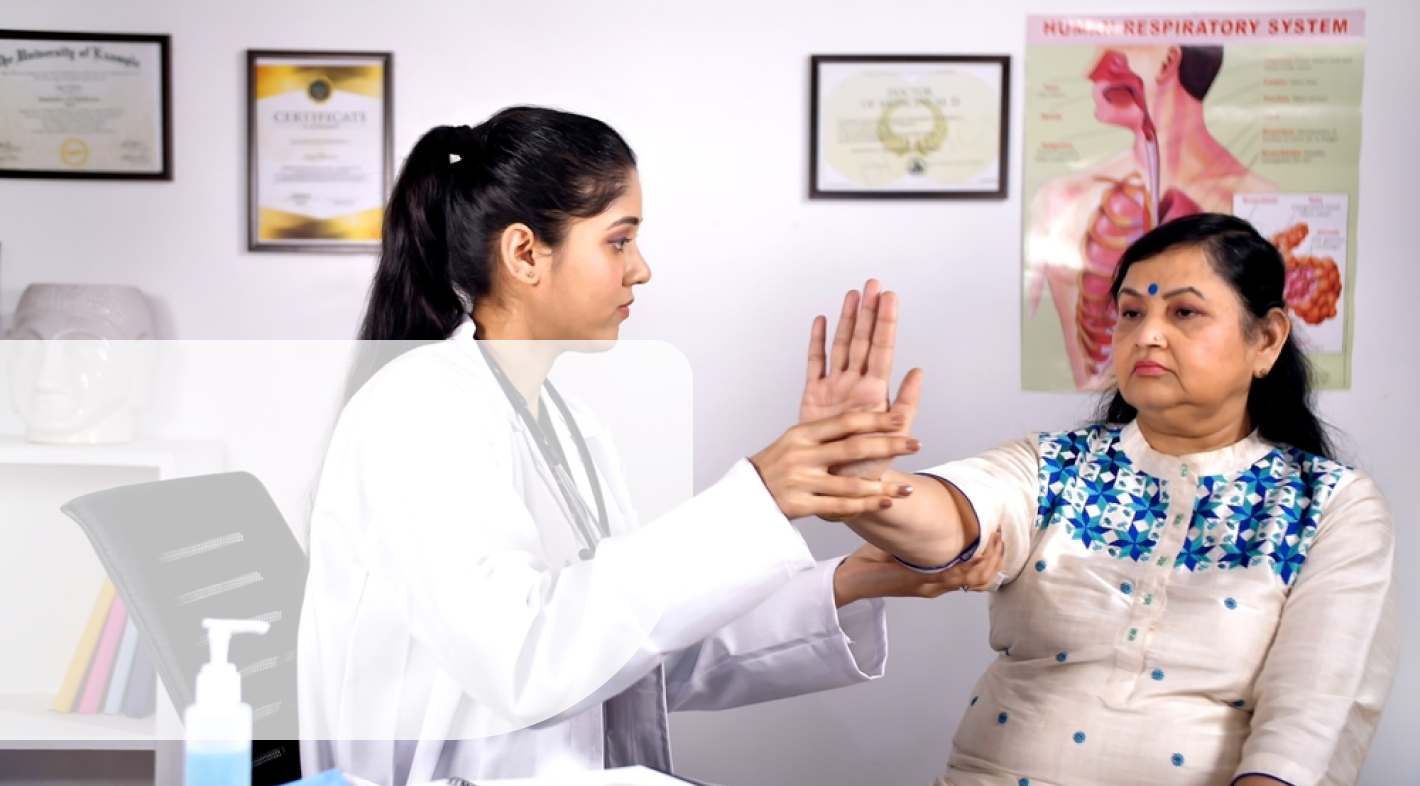
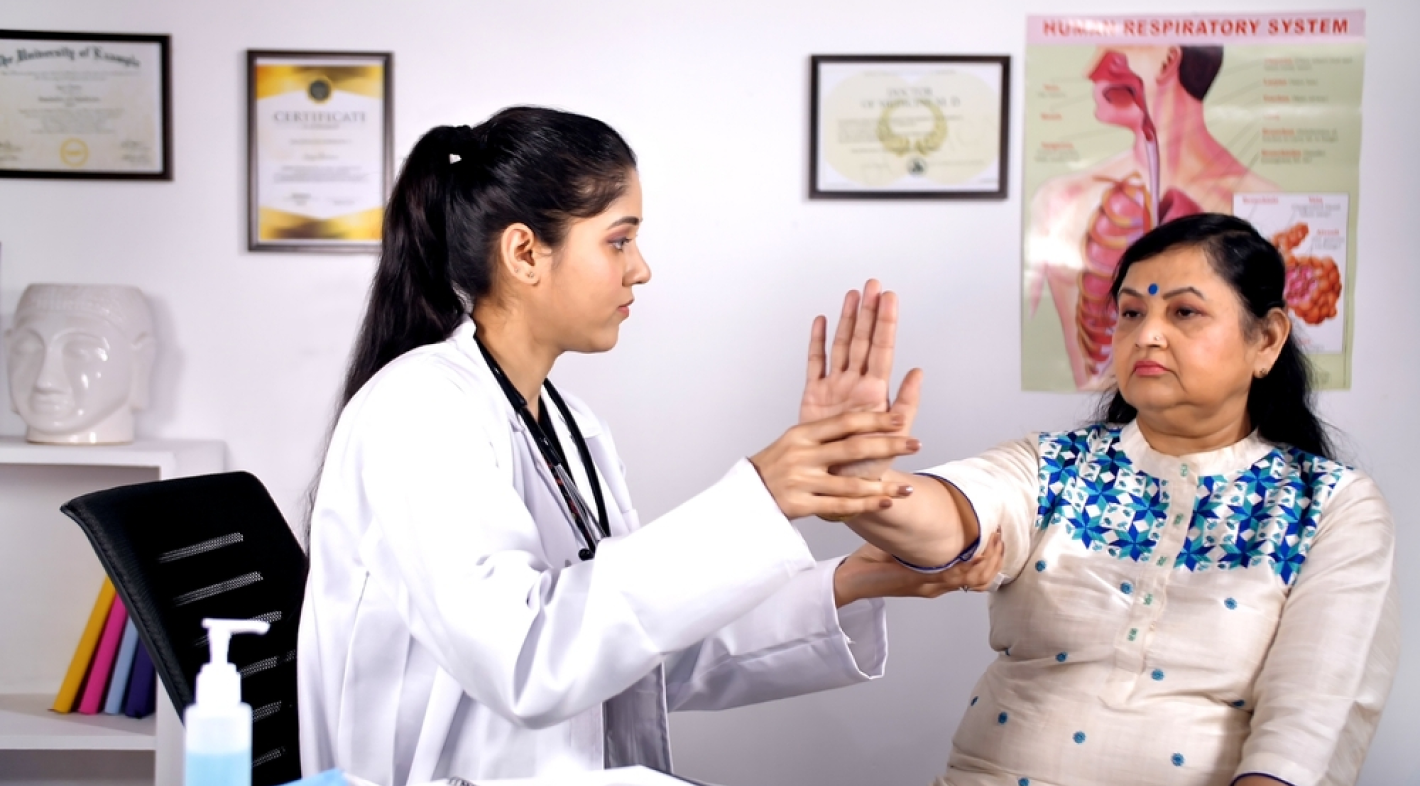
changes

Changed region(s): [[0.0, 0.4275, 0.4958, 0.9466]]

diff --git a/src/markup/pages/career.jsx b/src/markup/pages/career.jsx
@@ -113,10 +113,19 @@ class Career extends Component {
                         </div>
                     </div>
                     {/* <!-- Search --> */}
-                    <div className=''>
-                        <form onSubmit={e => this.handleSubmit(e)}>
-                        <div class="form-group1">
-                            <input
+                </section>
+
+                <div class="container">
+                        <div class="row" style={{ background: 'white' }}>
+                            <div class="col-lg-8 mx-auto">
+
+                                <div class="bg-white p-5 ">
+                                    {/* <!-- Search --> */}
+                                    <div class=" search-box">
+                                    
+                                        <form>
+                                            <div class="form-group1">
+                                            <input
                                 type="search"
                                 name="search-field"
                                 value={this.state.searchTerm}
@@ -124,10 +133,24 @@ class Career extends Component {
                                 placeholder="Search Topic"
                                 required="" />
                             <button type="submit" className='submitsearch'><span class="icon far fa-search searchblog"></span></button>
+                                            </div>
+                                        </form>
+                                        <div class="filtter">
+                                            <form action="#" class="language-switcher">
+                                                <select>
+                                                    <option value="1">Filter</option>
+                                                    <option value="1">FR</option>
+                                                    <option value="1">SP</option>
+                                                    <option value="1">BE</option>
+                                                </select>
+                                            </form>
+                                        </div>
+                                    </div>
+                                </div>
+                            </div>
                         </div>
-                    </form>
                     </div>
-                </section>
+
                 {/* 
                 <section class="career-head1">
                     <div class="container">

diff --git a/src/markup/pages/blog-Designv2.jsx b/src/markup/pages/blog-Designv2.jsx
@@ -130,7 +130,7 @@ class blog_Designv2 extends Component {
                                     <div class="lower-content">
                                         <div class="category">Blog heading</div>
 
-                                        <h3><Link to={'/blog-details'}>What Does Your GI Score Indicate?</Link></h3>
+                                        <h3><Link to={''}>What Does Your GI Score Indicate?</Link></h3>
                                         <div class="text">As a child, you were likely cautioned to limit your intake of sweets. Remember the warning not to go</div>
                                     </div>
                                 </div>
@@ -142,7 +142,7 @@ class blog_Designv2 extends Component {
                                     <div class="lower-content">
                                         <div class="category">Blog heading</div>
 
-                                        <h3><Link to={'/blog-details'}>Myths And Facts About GI Foods</Link></h3>
+                                        <h3><Link to={''}>Myths And Facts About GI Foods</Link></h3>
                                         <div class="text">Carbohydrates have been villainized in recent years as the culprit for weight gain and even chronic diseases</div>
                                     </div>
                                 </div>
@@ -156,7 +156,7 @@ class blog_Designv2 extends Component {
                                     <div class="lower-content">
                                         <div class="category">Blog heading</div>
 
-                                        <h3><Link to={'/blog-details'}>Everything you need to know about Glycemic Index</Link></h3>
+                                        <h3><Link to={''}>Everything you need to know about Glycemic Index</Link></h3>
                                         <div class="text">Even with the world becoming more health-conscious, diseases seem to be on the rise. While you frantically</div>
                                     </div>
                                 </div>

diff --git a/src/markup/pages/physiotherapy.jsx b/src/markup/pages/physiotherapy.jsx
@@ -18,28 +18,28 @@ class physiotherapy extends Component {
                 <Header />
                 <section class="internalpage internalpageresponsive style-two" style={{ backgroundImage: "url(" + aboutbg + ")" }}>
                     <div class="auto-container">
-                        <div class="content-box margin-110">
+                        <div class="content-box physiobox">
 
-                            <div class=" text-center textleft">
+                            <div class="textleft">
                                 <h2 className='textleft fontSize'>
-                                    <span className='headeingcolorblack'> Improve your mobility </span><br></br>
-                                    <span className='headeingcolorblue'>  one step at a time  </span>
+                                    <span className='headeingcolorblack'>Improve your mobility </span><br></br>
+                                    <span className='headeingcolorblue'> one step at a time </span>
 
                                 </h2>
                                 <h3 className='textleft marginTop40'>
-                                    Schedule a physiotherapy<br></br> session with us
+                                Schedule a physiotherapy<br></br> session with us
                                 </h3>
                             </div>
+                            {/* <button class="commonBtnforAll">BOOK NOW</button> */}
+                            <div class="btn-box btn5">
+
+                                <ContactForm buttonText="BOOK NOW" popupPosition="right" />
+                            </div>
+
                         </div>
 
-                        {/* <button class="commonBtnforAll">BOOK NOW</button> */}
-                        <div class="btn-box btn5">
-
-                            <ContactForm buttonText="BOOK NOW" popupPosition="right" />
-                        </div>
                     </div>
                 </section>
-
 
 
                 <section class="contact-section">

diff --git a/src/assets/css/style.css b/src/assets/css/style.css
@@ -11306,6 +11306,21 @@ hr {
 }
 /* Extra small devices (phones, 600px and down) */
 @media only screen and (max-width: 600px) {
+	.physiobox {
+		background: rgba(255, 255, 255, 0.75);
+		border-radius: 0px 40px 245px 0px;
+		width: 375px !important;
+		text-align: left !important;
+		margin-left: -7%;
+		padding: 20px 18px 1px 30px;
+	}
+	.physiobox .textleft
+	{
+text-align: left !important;
+	}
+	.margin-110 {
+		margin-top: 235px !important;
+	}
 	.carrerpadding {
 		padding: 110px 0 60px !important;
 	}
@@ -12426,6 +12441,11 @@ text-align: center;	}
 }
 
 @media only screen and (max-width: 600px) {
+	.linkdinicon {
+		box-shadow: none !important;
+		margin-left: 18px;
+		margin-top: 18px;
+	}
 	.martop {
 		margin-top: 35px !important;
 		margin-left: 0% !important;
@@ -13734,4 +13754,21 @@ button {
 }
 .modal-content {
     width: 100% !important;
+}
+.filtter {
+    border: 1px solid #bab7b7;
+    padding: 10px 5px 0px 10px;
+    width: -moz-fit-content;
+    /* width: max-content; */
+    border-radius: 10px;
+    height: 48.8px;
+    margin-left: 20px;
+}
+.physiobox
+{
+	background: rgba(255, 255, 255, 0.75);
+    border-radius: 0px 40px 245px 0px;
+    width: 750px;
+    margin-left: -7%;
+    padding: 20px 18px 1px 30px;
 }
